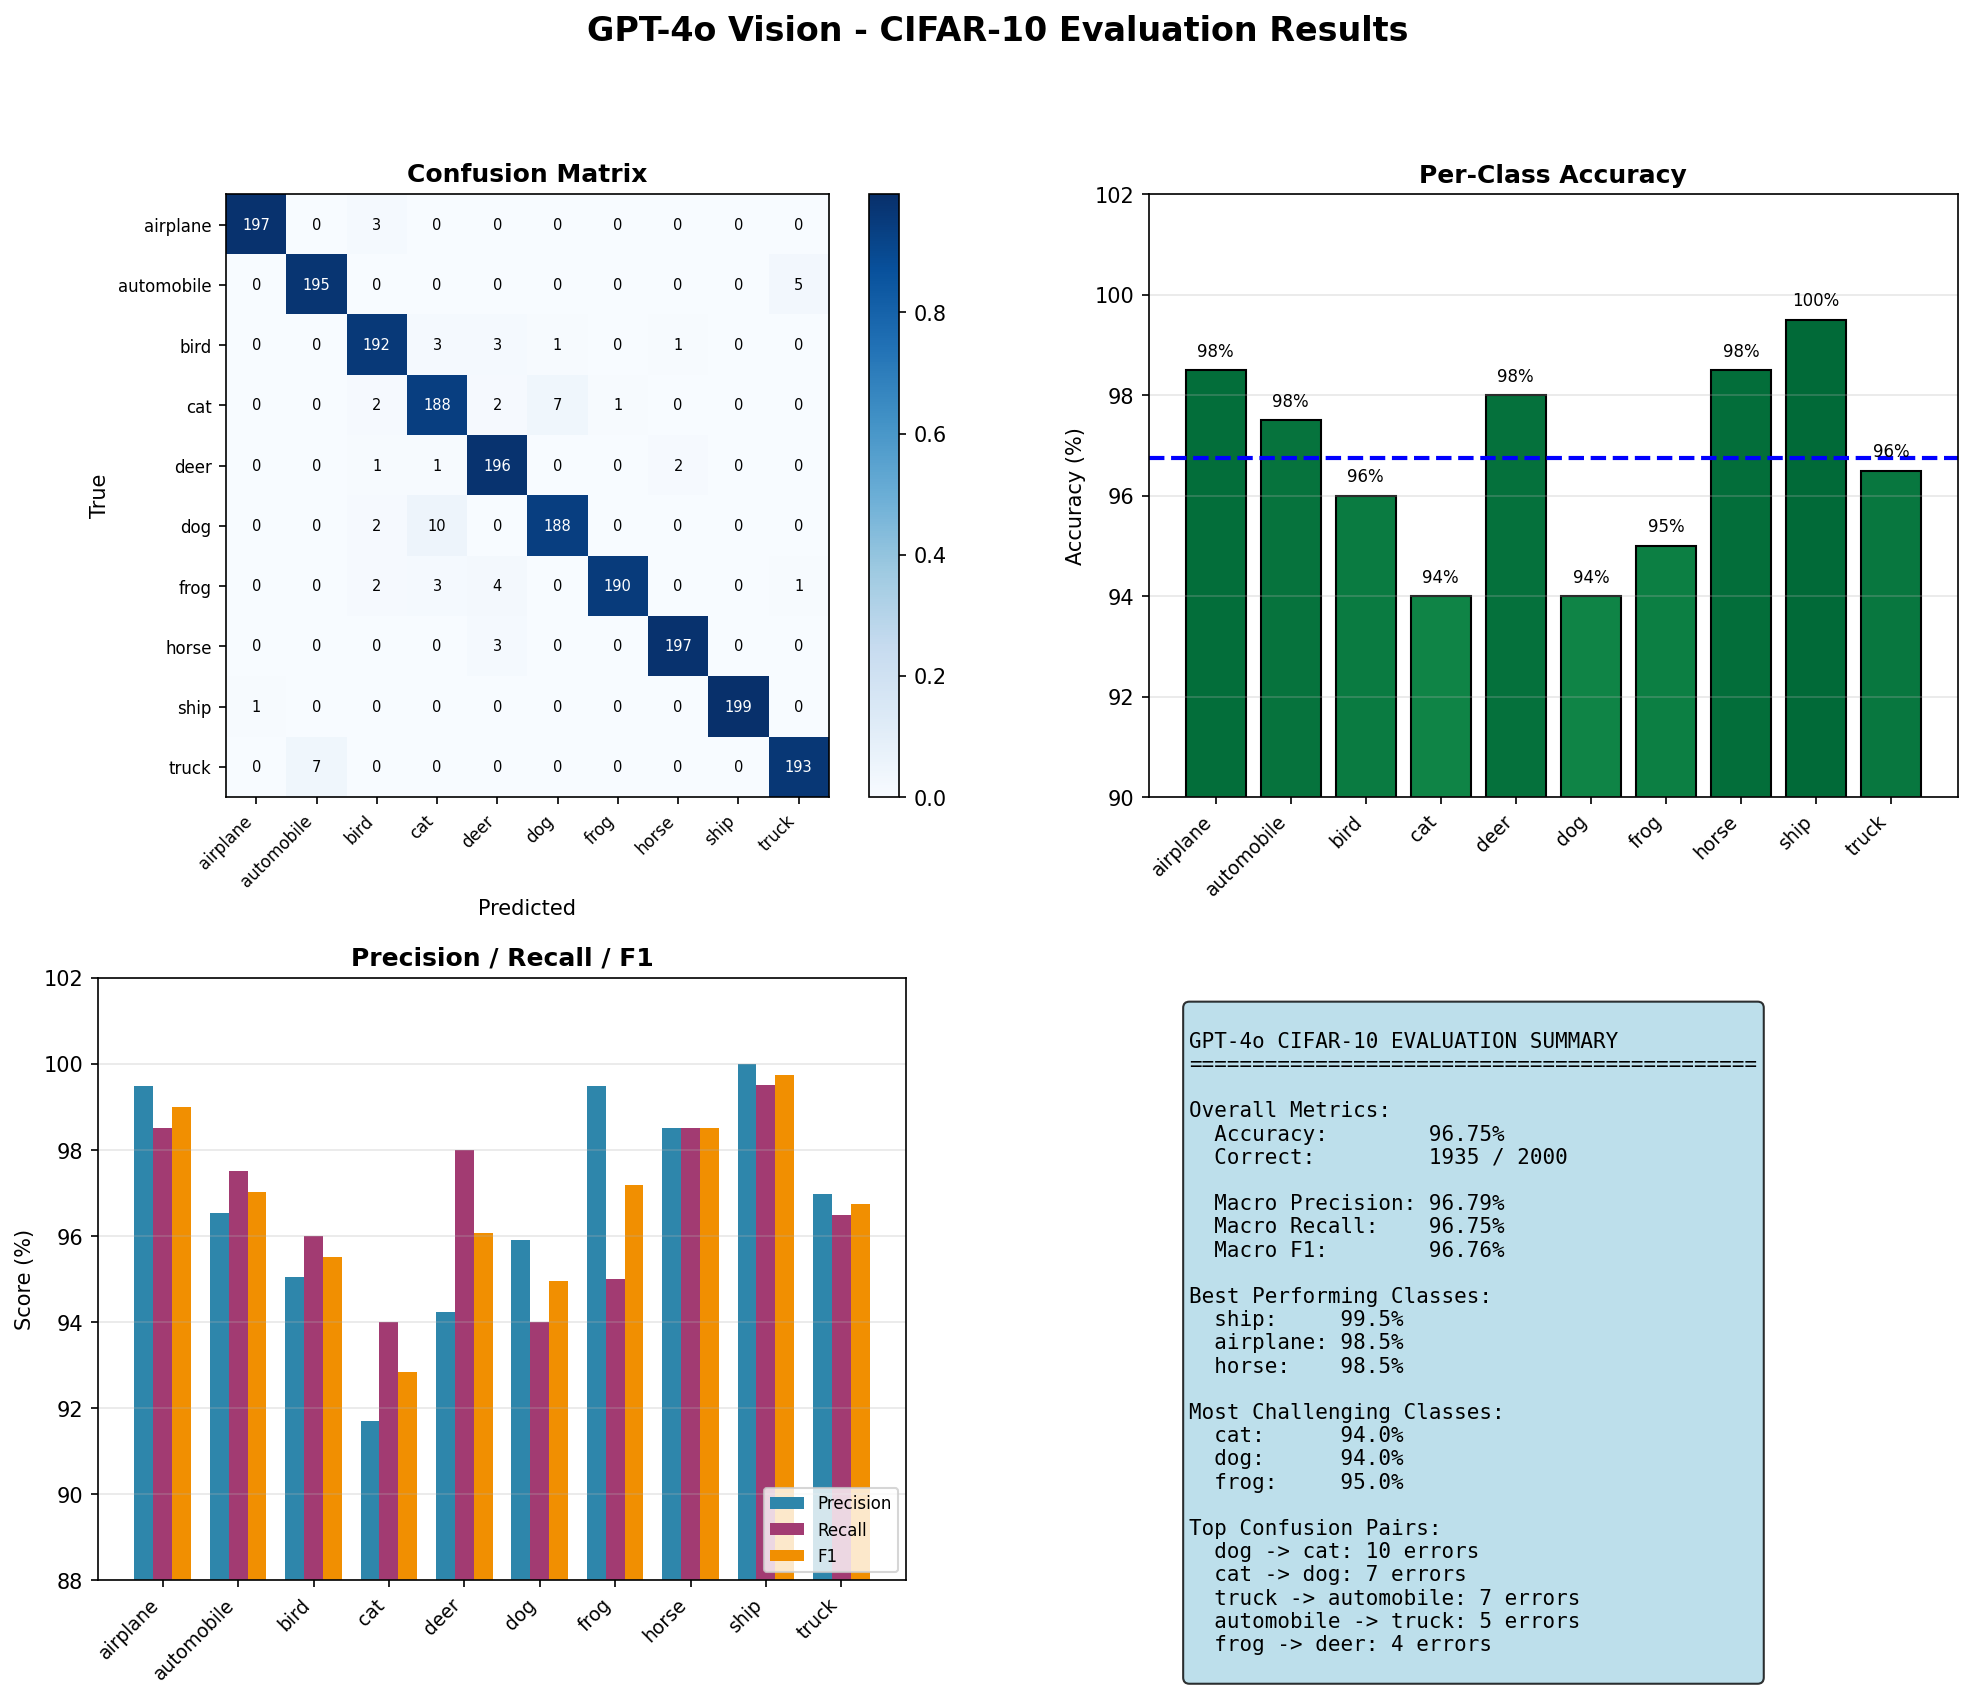
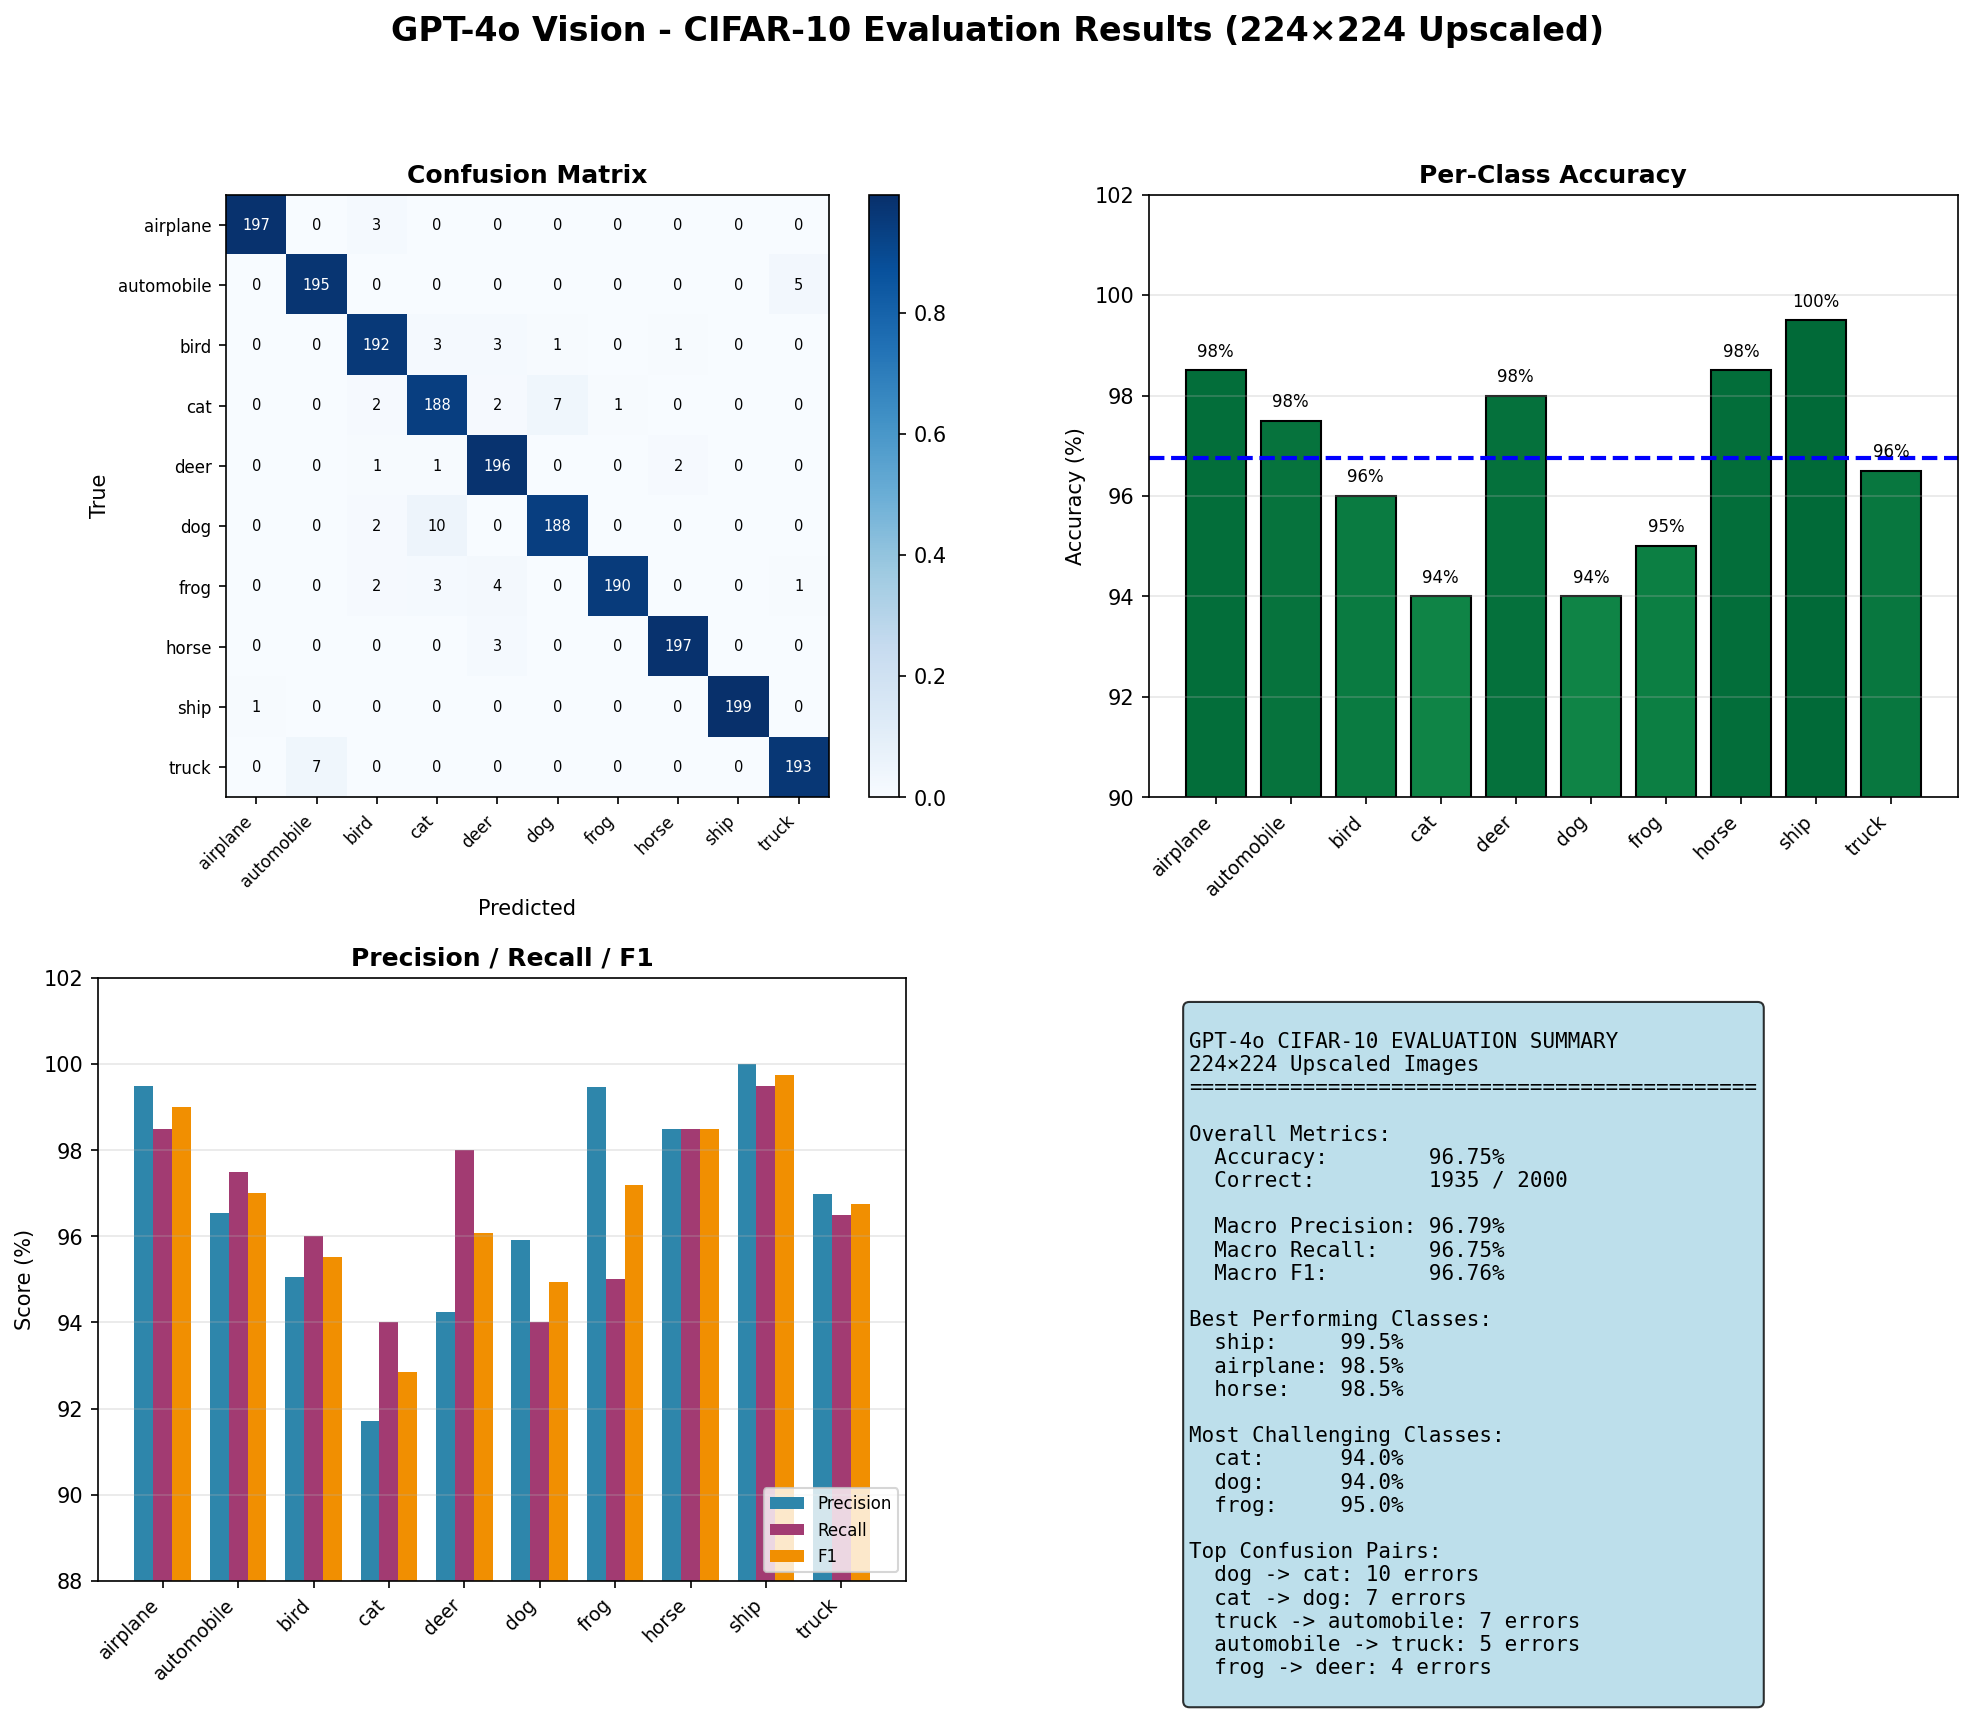
Visualization for gpt 32x32 data

diff --git a/visualize_gpt4o_32x32_results.py b/visualize_gpt4o_32x32_results.py
@@ -1,5 +1,5 @@
 """
-Generate visualizations from GPT-4o evaluation results.
+Generate visualizations from GPT-4o evaluation results (32x32 non-upscaled).
 Creates confusion matrix and per-class performance charts.
 """
 
@@ -13,10 +13,10 @@ CLASSES = ['airplane', 'automobile', 'bird', 'cat', 'deer',
            'dog', 'frog', 'horse', 'ship', 'truck']
 
 def load_gpt4o_results():
-    """Load the most recent GPT-4o results file"""
-    results_files = glob.glob('results_gpt4o/gpt4o_results_*.json')
+    """Load the most recent GPT-4o 32x32 results file"""
+    results_files = glob.glob('results_gpt4o_32x32/gpt4o_32x32_results_*.json')
     if not results_files:
-        raise FileNotFoundError("No GPT-4o results found in results_gpt4o/")
+        raise FileNotFoundError("No GPT-4o 32x32 results found in results_gpt4o_32x32/")
     
     # Get most recent
     latest_file = max(results_files, key=os.path.getmtime)
@@ -41,7 +41,7 @@ def plot_confusion_matrix(cm, class_names, save_path):
            yticklabels=class_names,
            ylabel='True Label', 
            xlabel='Predicted Label', 
-           title='GPT-4o Confusion Matrix (224×224 Upscaled)')
+           title='GPT-4o Confusion Matrix (32×32 Non-Upscaled)')
     plt.setp(ax.get_xticklabels(), rotation=45, ha='right')
     
     thresh = cm_norm.max() / 2.
@@ -73,7 +73,7 @@ def plot_per_class_performance(results, save_path):
     
     ax.set_ylabel('Score (%)', fontsize=12)
     ax.set_xlabel('Class', fontsize=12)
-    ax.set_title('GPT-4o Per-Class Performance (224×224 Upscaled)', fontsize=14, fontweight='bold')
+    ax.set_title('GPT-4o Per-Class Performance (32×32 Non-Upscaled)', fontsize=14, fontweight='bold')
     ax.set_xticks(x)
     ax.set_xticklabels(CLASSES, rotation=45, ha='right')
     ax.legend(loc='lower right')
@@ -107,7 +107,7 @@ def plot_class_accuracy_comparison(results, save_path):
     
     ax.set_ylabel('Accuracy (%)', fontsize=12)
     ax.set_xlabel('Class', fontsize=12)
-    ax.set_title(f'GPT-4o Per-Class Accuracy (224×224 Upscaled) - Overall: {results["accuracy"]*100:.2f}%', 
+    ax.set_title(f'GPT-4o Per-Class Accuracy (32×32 Non-Upscaled) - Overall: {results["accuracy"]*100:.2f}%', 
                  fontsize=14, fontweight='bold')
     ax.set_ylim([90, 102])
     ax.axhline(y=results['accuracy'] * 100, color='blue', linestyle='--', 
@@ -200,7 +200,7 @@ def plot_summary_dashboard(results, save_path):
     
     summary = f"""
 GPT-4o CIFAR-10 EVALUATION SUMMARY
-224×224 Upscaled Images
+32×32 Non-Upscaled Images
 {'='*45}
 
 Overall Metrics:
@@ -229,7 +229,7 @@ Top Confusion Pairs:
             verticalalignment='top', transform=ax4.transAxes,
             bbox=dict(boxstyle='round', facecolor='lightblue', alpha=0.8))
     
-    plt.suptitle('GPT-4o Vision - CIFAR-10 Evaluation Results (224×224 Upscaled)', 
+    plt.suptitle('GPT-4o Vision - CIFAR-10 Evaluation Results (32×32 Non-Upscaled)', 
                  fontsize=16, fontweight='bold', y=0.98)
     plt.savefig(save_path, dpi=150, bbox_inches='tight')
     print(f"Saved: {save_path}")
@@ -238,11 +238,11 @@ Top Confusion Pairs:
 
 def main():
     print("=" * 60)
-    print("GPT-4o Results Visualization")
+    print("GPT-4o 32×32 Results Visualization")
     print("=" * 60)
     
     # Create output directory
-    output_dir = 'gpt_4o_visualizations'
+    output_dir = 'gpt_4o_visualizations_32x32'
     os.makedirs(output_dir, exist_ok=True)
     print(f"Output directory: {output_dir}/")
     
@@ -257,32 +257,32 @@ def main():
     plot_confusion_matrix(
         results['confusion_matrix'], 
         CLASSES, 
-        os.path.join(output_dir, 'gpt4o_confusion_matrix.png')
+        os.path.join(output_dir, 'gpt4o_32x32_confusion_matrix.png')
     )
     
     plot_per_class_performance(
         results, 
-        os.path.join(output_dir, 'gpt4o_per_class_performance.png')
+        os.path.join(output_dir, 'gpt4o_32x32_per_class_performance.png')
     )
     
     plot_class_accuracy_comparison(
         results, 
-        os.path.join(output_dir, 'gpt4o_class_accuracy.png')
+        os.path.join(output_dir, 'gpt4o_32x32_class_accuracy.png')
     )
     
     plot_summary_dashboard(
         results, 
-        os.path.join(output_dir, 'gpt4o_summary_dashboard.png')
+        os.path.join(output_dir, 'gpt4o_32x32_summary_dashboard.png')
     )
     
     print("\n" + "=" * 60)
     print("VISUALIZATION COMPLETE")
     print("=" * 60)
     print(f"\nGenerated files (in {output_dir}/):")
-    print("  - gpt4o_confusion_matrix.png      - Confusion matrix heatmap")
-    print("  - gpt4o_per_class_performance.png - Precision/Recall/F1 by class")
-    print("  - gpt4o_class_accuracy.png        - Per-class accuracy bars")
-    print("  - gpt4o_summary_dashboard.png     - Combined dashboard")
+    print("  - gpt4o_32x32_confusion_matrix.png      - Confusion matrix heatmap")
+    print("  - gpt4o_32x32_per_class_performance.png - Precision/Recall/F1 by class")
+    print("  - gpt4o_32x32_class_accuracy.png        - Per-class accuracy bars")
+    print("  - gpt4o_32x32_summary_dashboard.png     - Combined dashboard")
 
 
 if __name__ == "__main__":
